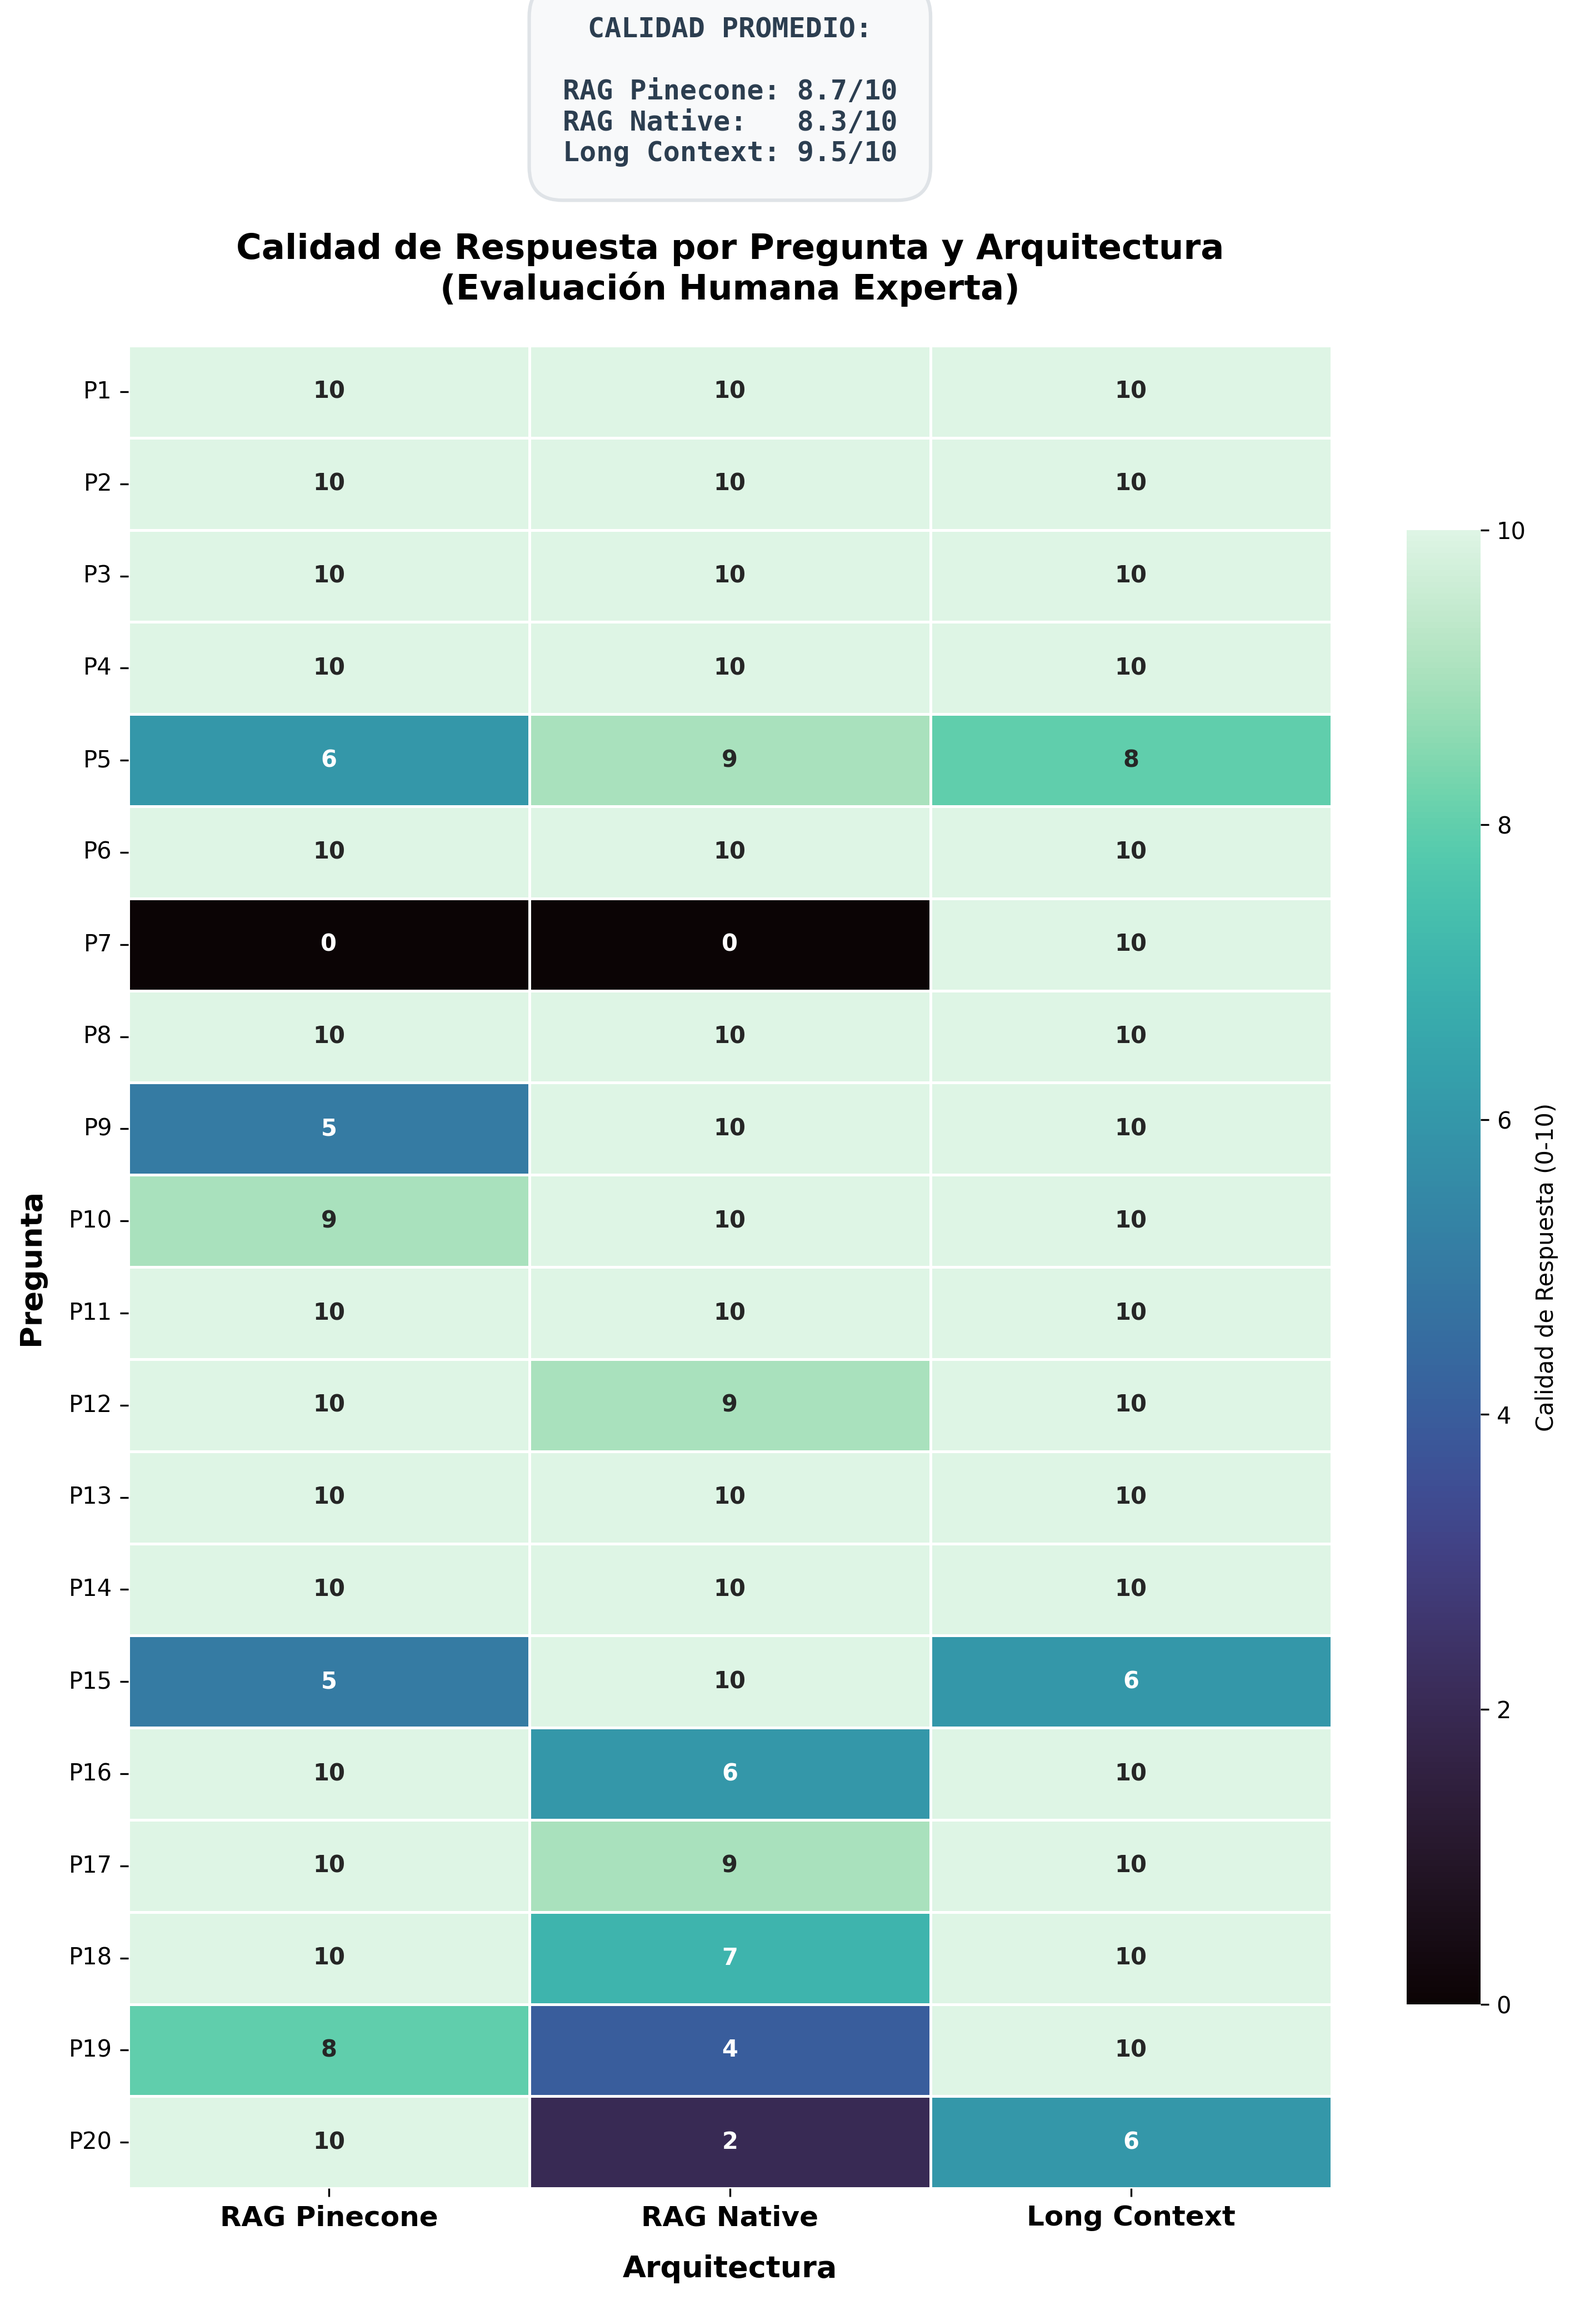
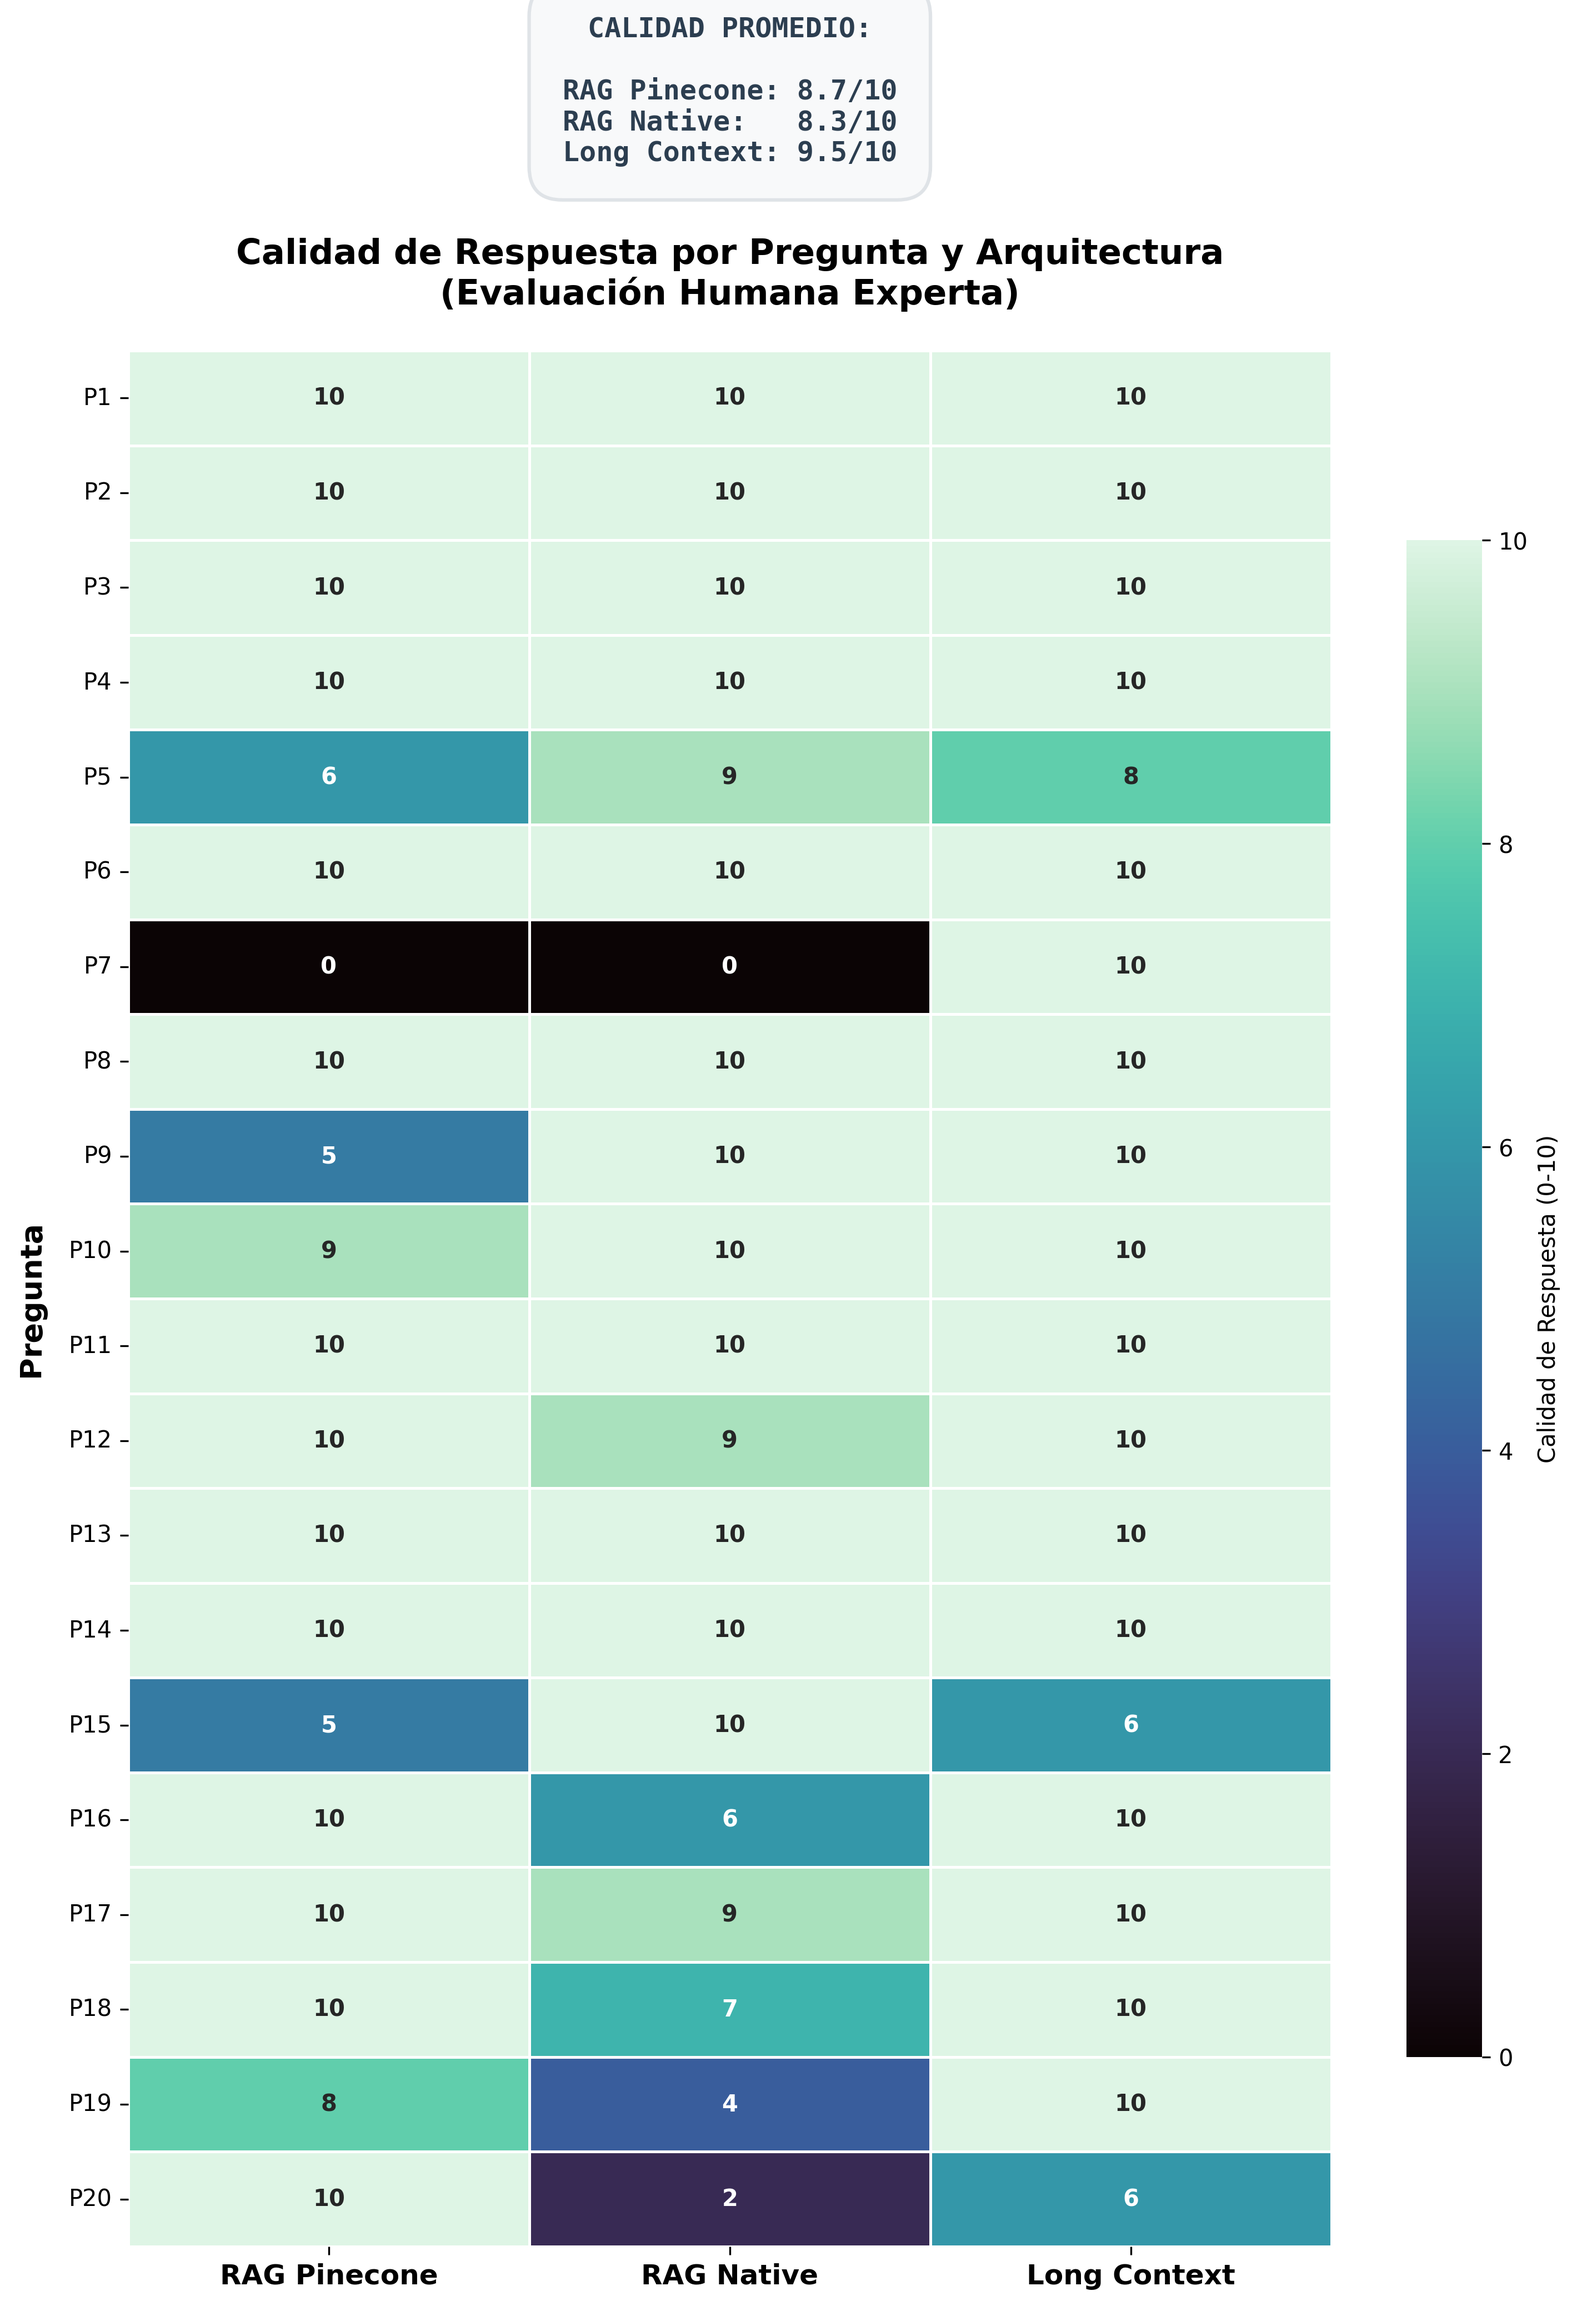
Últimos detalles de verificación

diff --git a/generar_graficas.py b/generar_graficas.py
@@ -3,6 +3,7 @@ import matplotlib.pyplot as plt
 import seaborn as sns
 import numpy as np
 from matplotlib.colors import LinearSegmentedColormap
+from matplotlib.ticker import MultipleLocator
 
 # --- CONFIGURACIÓN ---
 # Archivo fuente de datos y resolución de salida de las imágenes
@@ -112,7 +113,7 @@ def grafica_calidad(df1, df2, df3, is_judge=False):
     
     ax.set_xticklabels(['RAG Pinecone', 'RAG Native', 'Long Context'], fontsize=12, fontweight='bold')
     ax.set_yticklabels([f'P{i}' for i in range(1, num_preguntas + 1)], fontsize=10, rotation=0)
-    ax.set_xlabel('Arquitectura', fontsize=13, fontweight='bold', labelpad=10)
+
     ax.set_ylabel('Pregunta', fontsize=13, fontweight='bold', labelpad=10)
     ax.set_title(f'Calidad de Respuesta por Pregunta y Arquitectura\n{title_extra}', fontsize=15, fontweight='bold', pad=20)
     
@@ -172,8 +173,9 @@ def grafica_roi(df1, df2, df3, is_judge=False):
     x_sorted, y_sorted = [x_values[i] for i in sorted_indices], [y_values[i] for i in sorted_indices]
     ax.plot(x_sorted, y_sorted, 'k--', alpha=0.3, linewidth=2, zorder=1)
     
-    ax.set_xlabel('Coste Total ($USD)', fontsize=13, fontweight='bold')
+    ax.set_xlabel('Coste Total (€ EUR)', fontsize=13, fontweight='bold')
     ax.set_ylabel('Calidad Promedio (Score 0-10)', fontsize=13, fontweight='bold')
+    ax.yaxis.set_major_locator(MultipleLocator(0.2))
     ax.set_title(f'Trade-off Coste vs Calidad {title_extra}\n(Arriba-Izquierda = Mejor: Alta Calidad, Bajo Coste)', fontsize=15, fontweight='bold', pad=20)
     
     from matplotlib.patches import Patch
